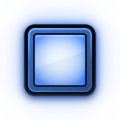
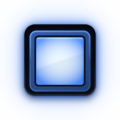
Botones: apagado saliente, prendido hundido [skip ci]
Claude-Session: https://claude.ai/code/session_01LmYTuHAKQSU8qhR6nNkVAi

Changed region(s): [[0.225, 0.225, 0.775, 0.775]]

diff --git a/UI_definitiva/generadores/button_gen.py b/UI_definitiva/generadores/button_gen.py
@@ -12,8 +12,12 @@ def draw(on):
         h,w=A.shape[:2]; yy,xx=np.mgrid[0:h,0:w]; X=xx-w/2+.5; Y=yy-h/2+.5; Xd=X/S; Yd=Y/S
         rng=np.random.default_rng(31 if on else 30)
         RING=3.6; TB=5.0; GP=1.8                              # anillo negro exterior, grosor del bisel, canal oscuro
-        HB=BW/2; FH=HB-TB-GP                                  # medio lado del bisel y de la lente
-        sd_r=sdf(X,Y,(HB+RING)*S,(HB+RING)*S,(7+RING)*S)     # anillo/pozo negro (incrustado)
+        HB0=BW/2; FH0=HB0-TB-GP
+        sd_r=sdf(X,Y,(HB0+RING)*S,(HB0+RING)*S,(7+RING)*S)   # anillo/pozo negro (incrustado)
+        # apagado = boton saliente (sube un poco); prendido = apretado (se hunde y baja un poco)
+        HB=HB0-(1.4 if on else 0.0); FH=FH0-(1.4 if on else 0.0)
+        oy=1.0 if on else -0.6
+        Y=Y-oy*S; Yd=Yd-oy
         sd_b=sdf(X,Y,HB*S,HB*S,7*S)                           # bisel metalico
         sd_l=sdf(X,Y,(FH+GP)*S,(FH+GP)*S,4.2*S)               # borde del canal
         sd_f=sdf(X,Y,FH*S,FH*S,2.6*S)                         # lente
@@ -37,8 +41,12 @@ def draw(on):
         Lb=84+16*t-14*np.clip(xn,0,1)+7*np.clip(-xn,0,1)+g1*0.8
         Lb=Lb+105*np.exp(-((dib-0.9)/0.9)**2)*np.clip(t,0,1)**0.6+45*np.exp(-((dib-0.7)/0.7)**2)*np.clip(-t,0,1)**0.8
         Lb=Lb+22*np.exp(-((dib-0.7)/0.7)**2)*np.clip(-xn,0,1)
+        if on: Lb=Lb*0.82-6
+        else: Lb=Lb+10*np.exp(-((dib-0.9)/0.9)**2)*np.clip(t,0,1)
         if on: bez=np.stack([Lb*0.50+12,Lb*0.72+34,Lb*1.0+78],-1)
         else:  bez=np.stack([Lb]*3,-1)
+        cast=gaussian_filter(ndshift(cov(sd_b),((0.5 if on else 2.0)*S,0),order=1),(0.9 if on else 1.7)*S)*(0.35 if on else 0.85)*mr
+        col=col*(1-cast[...,None])
         col=col*(1-mb)+np.clip(bez,0,255)*mb
         # --- canal oscuro entre bisel y lente (mas sombra arriba y a la derecha)
         dl=np.clip(-sd_l/S,0,None)
